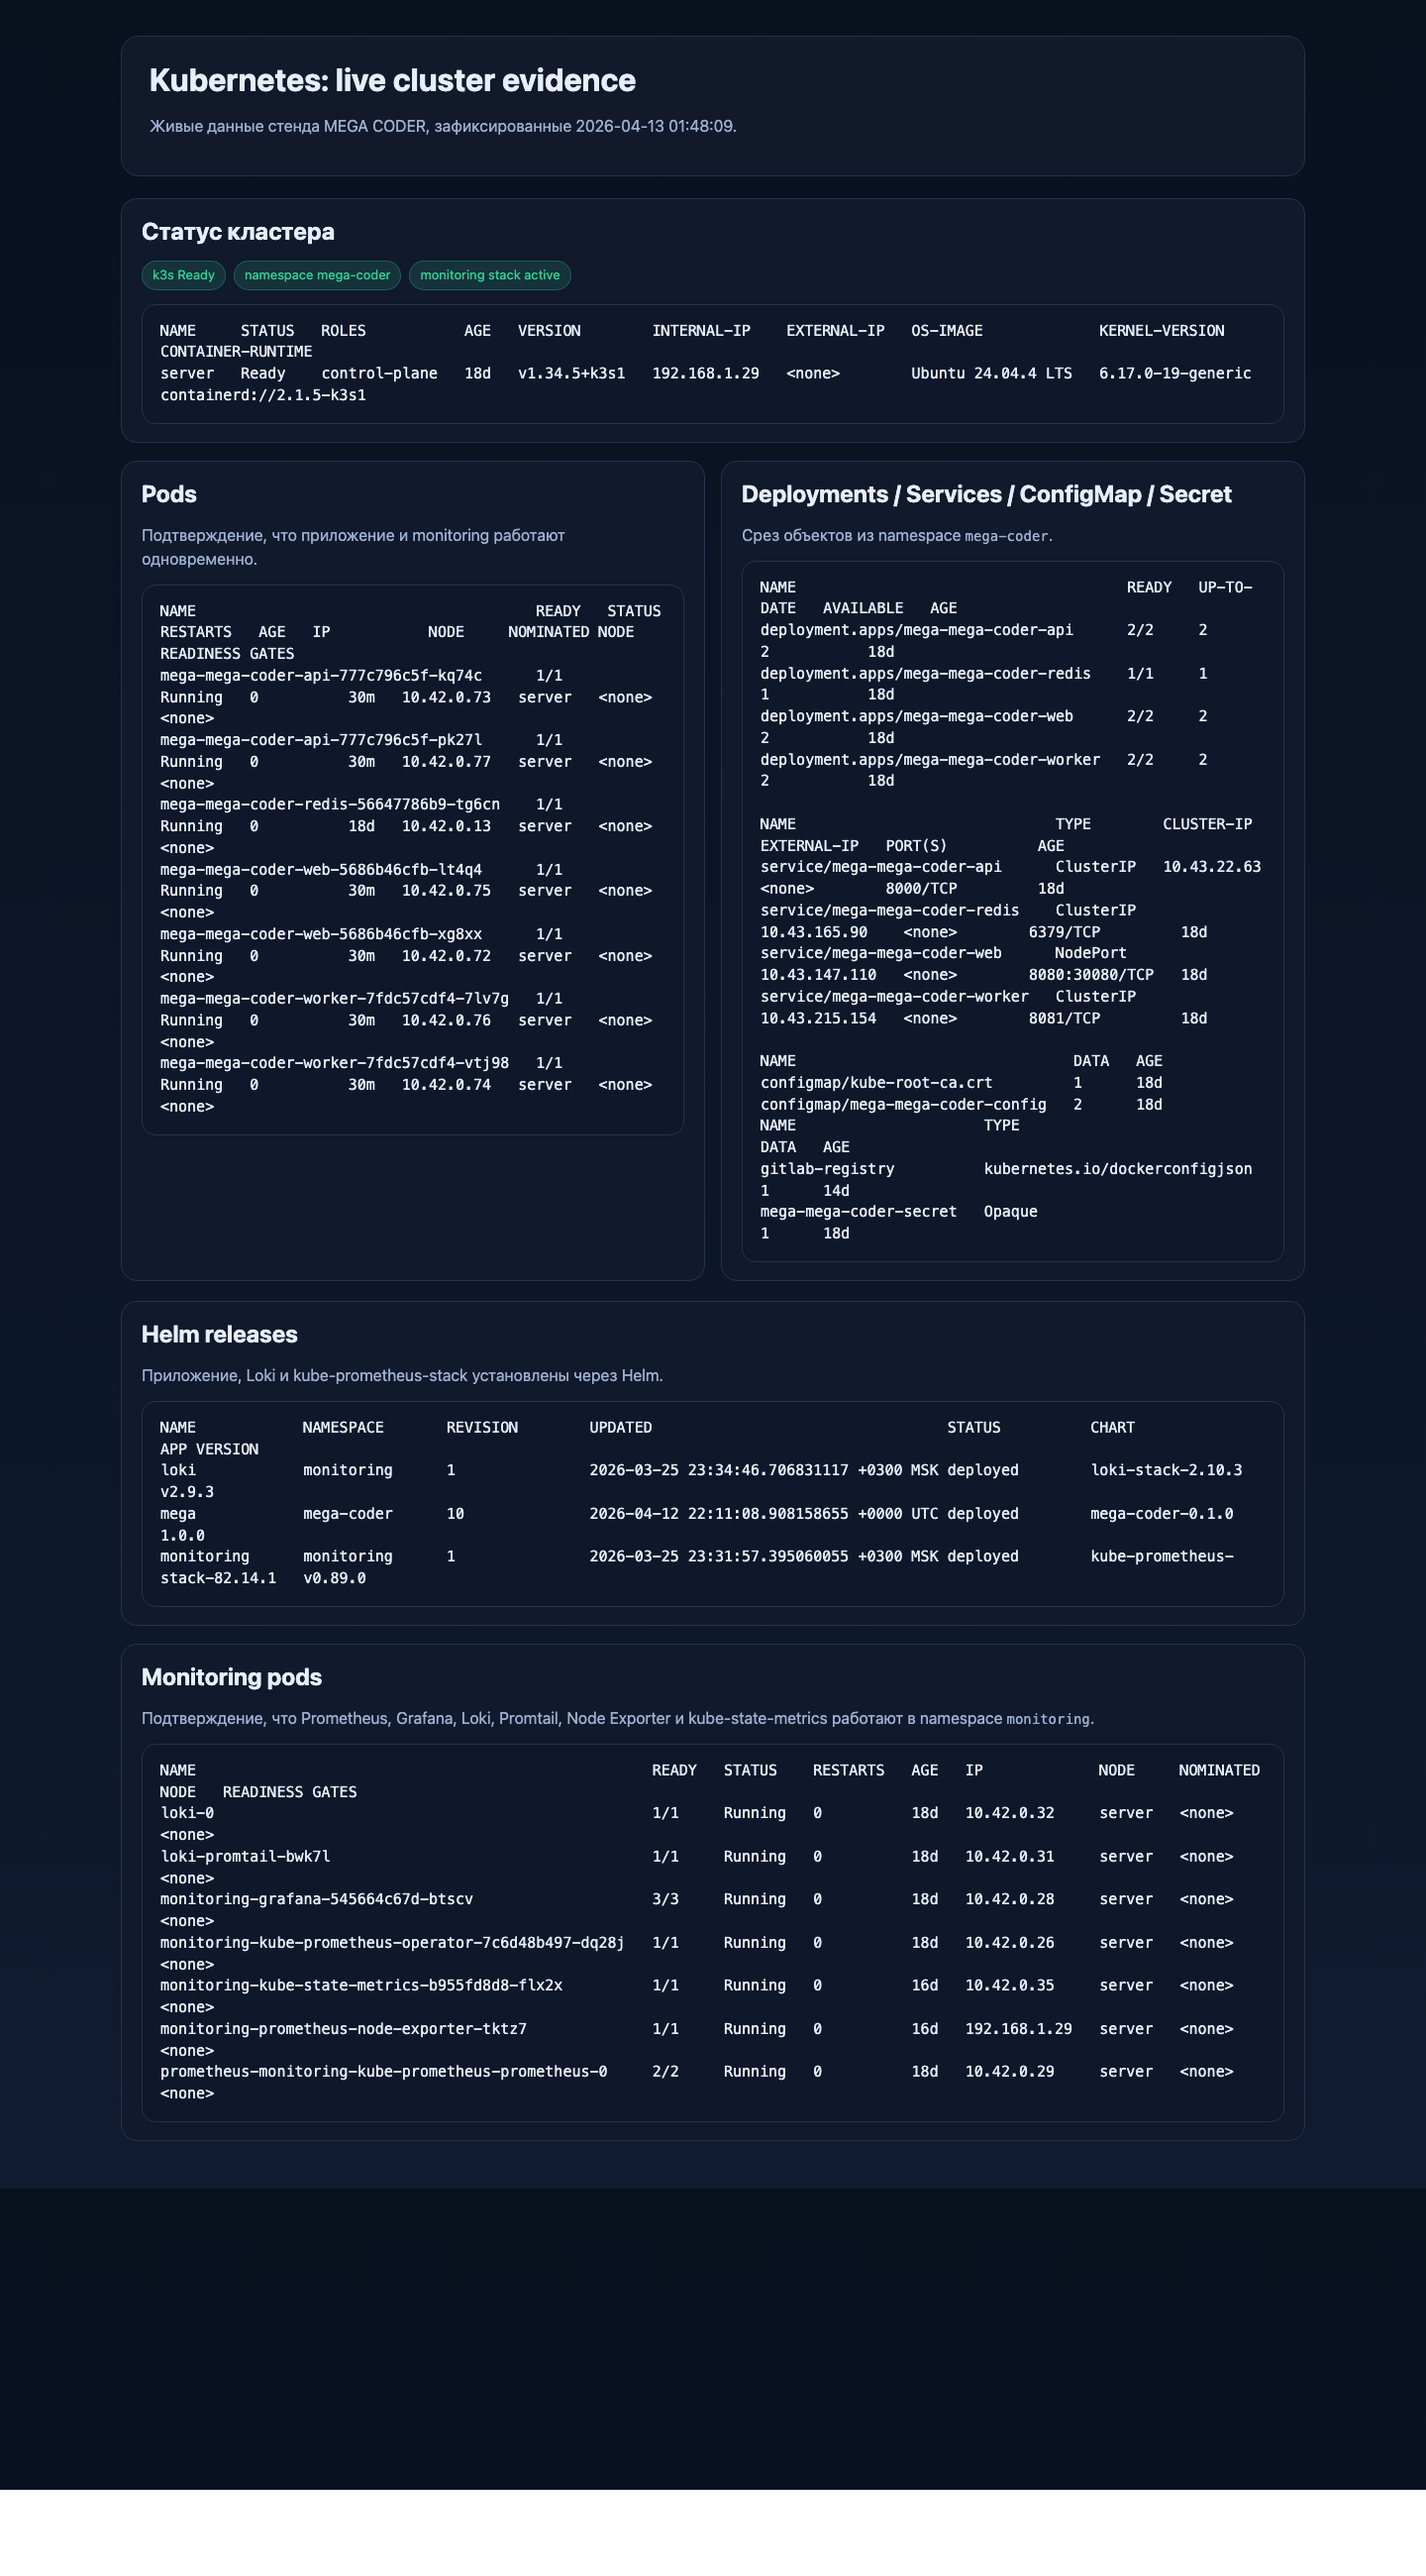
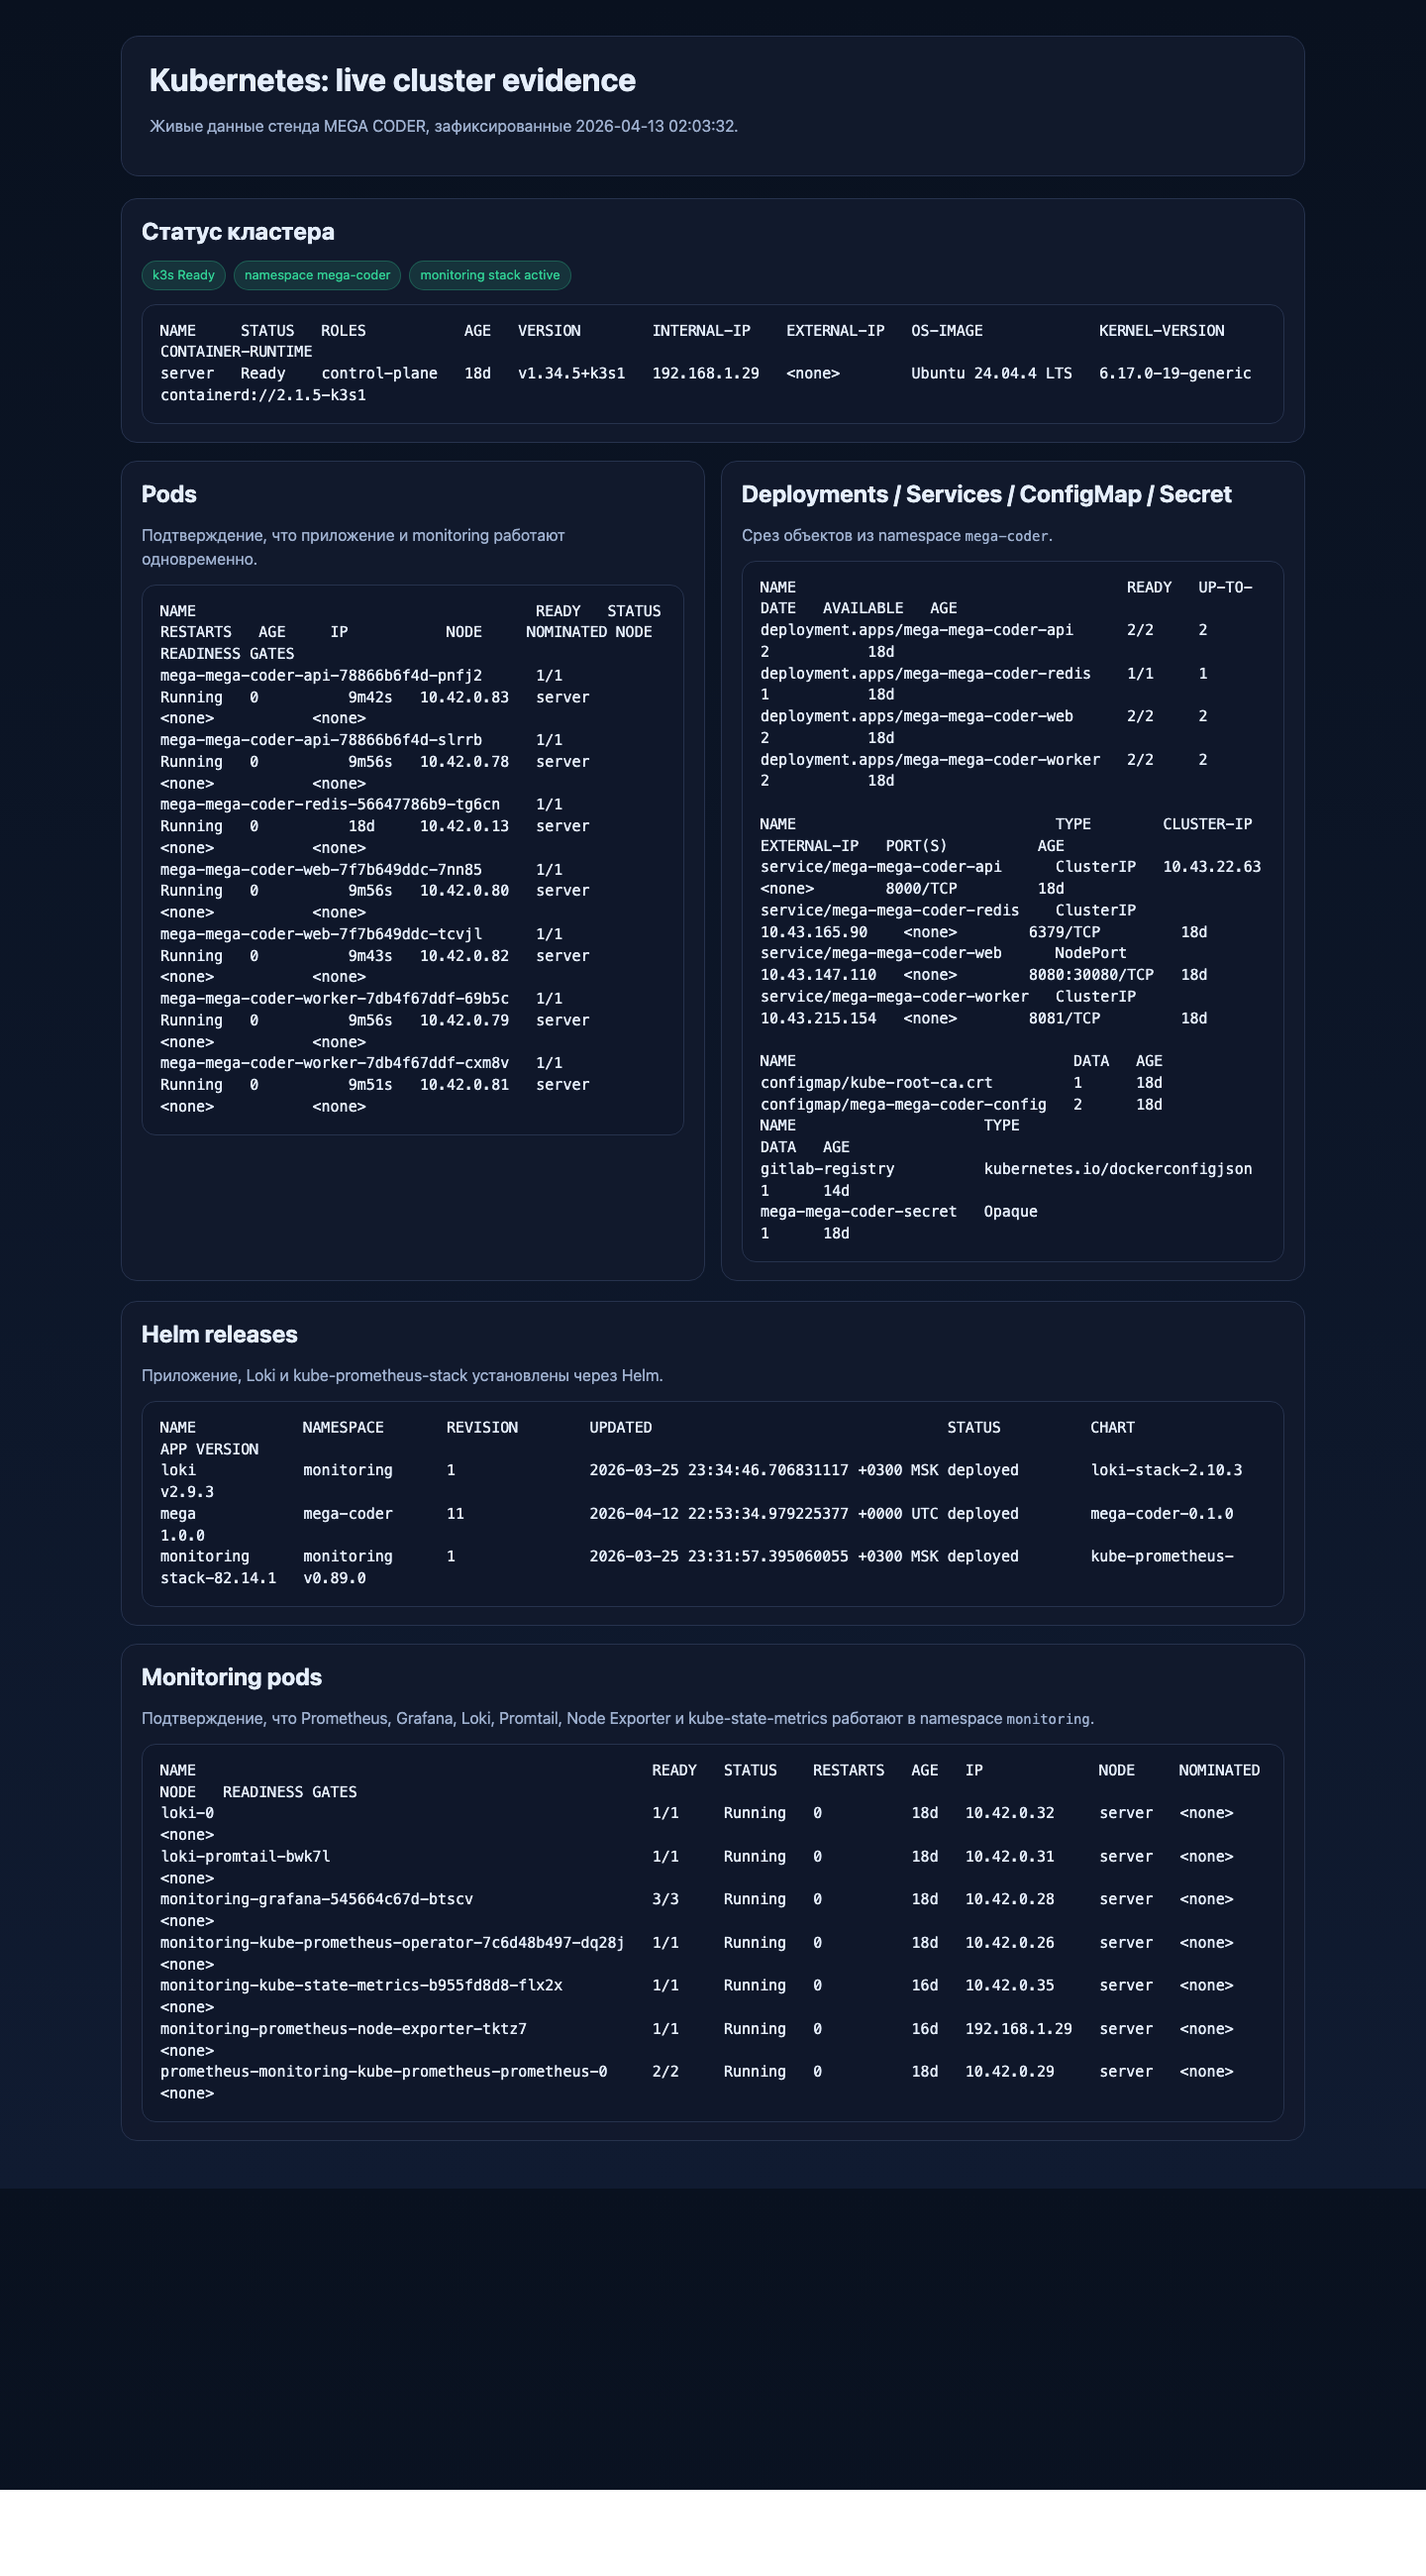
Docs: align Helm evidence with final deploy [skip ci]

Changed region(s): [[0.2188, 0.2492, 0.4062, 0.4362], [0.4062, 0.2181, 0.4375, 0.2492]]

diff --git a/report-assets/html/k8s-proof.html b/report-assets/html/k8s-proof.html
@@ -111,7 +111,7 @@
   <main>
     <section class="hero">
       <h1>Kubernetes: live cluster evidence</h1>
-      <p>Живые данные стенда MEGA CODER, зафиксированные 2026-04-13 01:48:09.</p>
+      <p>Живые данные стенда MEGA CODER, зафиксированные 2026-04-13 02:03:32.</p>
     </section>
     
     <section class="panel" style="margin-bottom: 18px;">
@@ -124,14 +124,14 @@ server   Ready    control-plane   18d   v1.34.5+k3s1   192.168.1.29   &lt;none&g
       <div class="panel">
         <h2>Pods</h2>
         <p>Подтверждение, что приложение и monitoring работают одновременно.</p>
-        <pre>NAME                                      READY   STATUS    RESTARTS   AGE   IP           NODE     NOMINATED NODE   READINESS GATES
-mega-mega-coder-api-777c796c5f-kq74c      1/1     Running   0          30m   10.42.0.73   server   &lt;none&gt;           &lt;none&gt;
-mega-mega-coder-api-777c796c5f-pk27l      1/1     Running   0          30m   10.42.0.77   server   &lt;none&gt;           &lt;none&gt;
-mega-mega-coder-redis-56647786b9-tg6cn    1/1     Running   0          18d   10.42.0.13   server   &lt;none&gt;           &lt;none&gt;
-mega-mega-coder-web-5686b46cfb-lt4q4      1/1     Running   0          30m   10.42.0.75   server   &lt;none&gt;           &lt;none&gt;
-mega-mega-coder-web-5686b46cfb-xg8xx      1/1     Running   0          30m   10.42.0.72   server   &lt;none&gt;           &lt;none&gt;
-mega-mega-coder-worker-7fdc57cdf4-7lv7g   1/1     Running   0          30m   10.42.0.76   server   &lt;none&gt;           &lt;none&gt;
-mega-mega-coder-worker-7fdc57cdf4-vtj98   1/1     Running   0          30m   10.42.0.74   server   &lt;none&gt;           &lt;none&gt;</pre>
+        <pre>NAME                                      READY   STATUS    RESTARTS   AGE     IP           NODE     NOMINATED NODE   READINESS GATES
+mega-mega-coder-api-78866b6f4d-pnfj2      1/1     Running   0          9m42s   10.42.0.83   server   &lt;none&gt;           &lt;none&gt;
+mega-mega-coder-api-78866b6f4d-slrrb      1/1     Running   0          9m56s   10.42.0.78   server   &lt;none&gt;           &lt;none&gt;
+mega-mega-coder-redis-56647786b9-tg6cn    1/1     Running   0          18d     10.42.0.13   server   &lt;none&gt;           &lt;none&gt;
+mega-mega-coder-web-7f7b649ddc-7nn85      1/1     Running   0          9m56s   10.42.0.80   server   &lt;none&gt;           &lt;none&gt;
+mega-mega-coder-web-7f7b649ddc-tcvjl      1/1     Running   0          9m43s   10.42.0.82   server   &lt;none&gt;           &lt;none&gt;
+mega-mega-coder-worker-7db4f67ddf-69b5c   1/1     Running   0          9m56s   10.42.0.79   server   &lt;none&gt;           &lt;none&gt;
+mega-mega-coder-worker-7db4f67ddf-cxm8v   1/1     Running   0          9m51s   10.42.0.81   server   &lt;none&gt;           &lt;none&gt;</pre>
       </div>
       <div class="panel">
         <h2>Deployments / Services / ConfigMap / Secret</h2>
@@ -161,7 +161,7 @@ mega-mega-coder-secret   Opaque                           1      18d</pre>
       <p>Приложение, Loki и kube-prometheus-stack установлены через Helm.</p>
       <pre>NAME      	NAMESPACE 	REVISION	UPDATED                                	STATUS  	CHART                        	APP VERSION
 loki      	monitoring	1       	2026-03-25 23:34:46.706831117 +0300 MSK	deployed	loki-stack-2.10.3            	v2.9.3     
-mega      	mega-coder	10      	2026-04-12 22:11:08.908158655 +0000 UTC	deployed	mega-coder-0.1.0             	1.0.0      
+mega      	mega-coder	11      	2026-04-12 22:53:34.979225377 +0000 UTC	deployed	mega-coder-0.1.0             	1.0.0      
 monitoring	monitoring	1       	2026-03-25 23:31:57.395060055 +0300 MSK	deployed	kube-prometheus-stack-82.14.1	v0.89.0</pre>
     </section>
     <section class="panel" style="margin-top: 18px;">

diff --git a/report-assets/html/loki-proof.html b/report-assets/html/loki-proof.html
@@ -111,7 +111,7 @@
   <main>
     <section class="hero">
       <h1>Loki evidence: live logs from namespace mega-coder</h1>
-      <p>Живые данные стенда MEGA CODER, зафиксированные 2026-04-13 01:48:09.</p>
+      <p>Живые данные стенда MEGA CODER, зафиксированные 2026-04-13 02:03:32.</p>
     </section>
     
     <section class="panel" style="margin-bottom: 18px;">

diff --git a/report-assets/html/monitoring-proof.html b/report-assets/html/monitoring-proof.html
@@ -111,7 +111,7 @@
   <main>
     <section class="hero">
       <h1>Monitoring evidence: Prometheus + Grafana datasources</h1>
-      <p>Живые данные стенда MEGA CODER, зафиксированные 2026-04-13 01:48:09.</p>
+      <p>Живые данные стенда MEGA CODER, зафиксированные 2026-04-13 02:03:32.</p>
     </section>
     
     <section class="cards-4">

diff --git a/report-assets/html/backend-proof.html b/report-assets/html/backend-proof.html
@@ -111,7 +111,7 @@
   <main>
     <section class="hero">
       <h1>MEGA CODER: Frontend + Backend</h1>
-      <p>Живые данные стенда MEGA CODER, зафиксированные 2026-04-13 01:48:09.</p>
+      <p>Живые данные стенда MEGA CODER, зафиксированные 2026-04-13 02:03:32.</p>
     </section>
     
     <section class="grid">

diff --git a/REPORT.md b/REPORT.md
@@ -538,7 +538,7 @@ Job `deploy_helm`:
 | Grafana | `http://192.168.1.29:30030/login` отвечает `200 OK` |
 | Kubernetes | нода `server` в статусе `Ready`, версия `v1.34.5+k3s1` |
 | Приложение | `api`, `web`, `worker` по `2/2`, `redis` `1/1` |
-| Helm | release `mega` в namespace `mega-coder`, revision `10`, status `deployed` |
+| Helm | release `mega` в namespace `mega-coder`, revision `11`, status `deployed` |
 | Monitoring | releases `monitoring` и `loki` в статусе `deployed`; pod'ы monitoring namespace `Running` |
 | Grafana dashboard | `MEGA CODER / DevOps Overview` импортирован и доступен по `/d/mega-coder-devops/mega-coder-devops-overview` |
 
